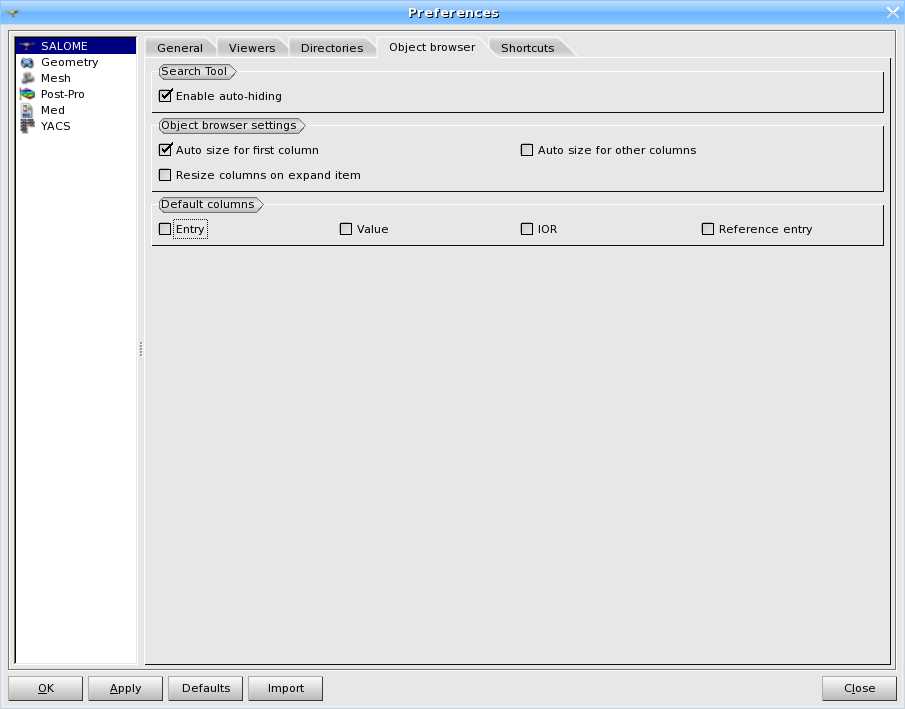
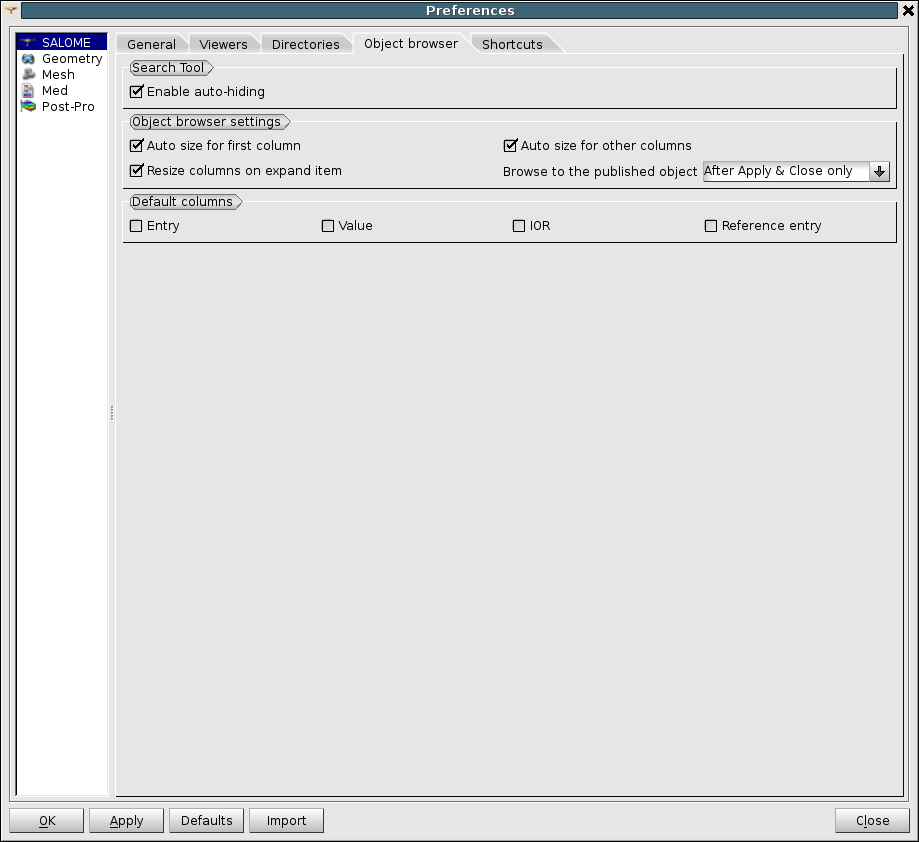
Issue 0021055: EDF 1602 STUDY: Object browser reactualisation when creating an object

diff --git a/src/LightApp/resources/LightApp_msg_en.ts b/src/LightApp/resources/LightApp_msg_en.ts
@@ -387,6 +387,22 @@ The changes will be applied on the next application session.</translation>
         <translation>Resize columns on expand item</translation>
     </message>
     <message>
+        <source>PREF_BROWSE_TO_THE_PUBLISHED_OBJECT</source>
+        <translation>Browse to the published object</translation>
+    </message>
+    <message>
+        <source>PREF_BROWSE_NEVER</source>
+        <translation>Never</translation>
+    </message>
+    <message>
+        <source>PREF_BROWSE_AFTER_APPLY_AND_CLOSE_ONLY</source>
+        <translation>After Apply &amp; Close only</translation>
+    </message>
+    <message>
+        <source>PREF_BROWSE_ALWAYS</source>
+        <translation>Always</translation>
+    </message>
+    <message>
         <source>PREF_GROUP_SUPERV</source>
         <translation>Graph Supervisor</translation>
     </message>

diff --git a/src/LightApp/LightApp_Application.h b/src/LightApp/LightApp_Application.h
@@ -89,6 +89,8 @@ public:
 protected:
   enum { NewStudyId = 1, OpenStudyId };
 
+  enum BrowsePolicy { BP_Never = 0, BP_ApplyAndClose, BP_Always };
+
 public:
   LightApp_Application();
   virtual ~LightApp_Application();
@@ -156,6 +158,10 @@ public:
 
   //! Removes ViewManagers only of known type
   virtual void                        clearKnownViewManagers();
+
+  virtual QString                     browseObjects( const QStringList& theEntryList,
+                                                     const bool theIsApplyAndClose = true,
+                                                     const bool theIsOptimizedBrowsing = false );
 
 signals:
   void                                studyOpened();

diff --git a/src/LightApp/LightApp_Study.h b/src/LightApp/LightApp_Study.h
@@ -38,6 +38,7 @@
 class SUIT_Study;
 class SUIT_Application;
 class CAM_DataModel;
+class LightApp_DataObject;
 
 //Map to store visual property of the object.
 //Key:   Name of the visual property of the object.
@@ -105,6 +106,8 @@ public:
   virtual void                  setVisibilityState(const QString& theEntry, Qtx::VisibilityState theState);
   virtual Qtx::VisibilityState  visibilityState(const QString& theEntry) const;
   virtual void                  setVisibilityStateForAll(Qtx::VisibilityState theState);
+
+  virtual LightApp_DataObject* findObjectByEntry( const QString& theEntry );
 
 protected:
   virtual void        saveModuleData ( QString theModuleName, QStringList theListOfFiles );
